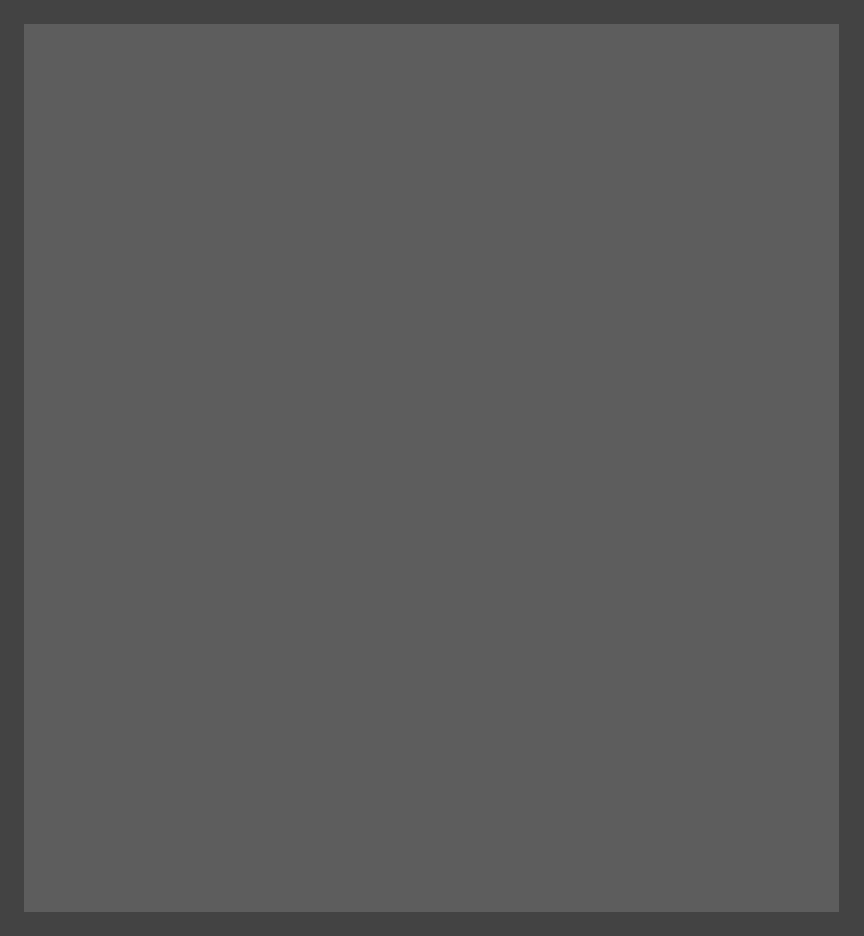
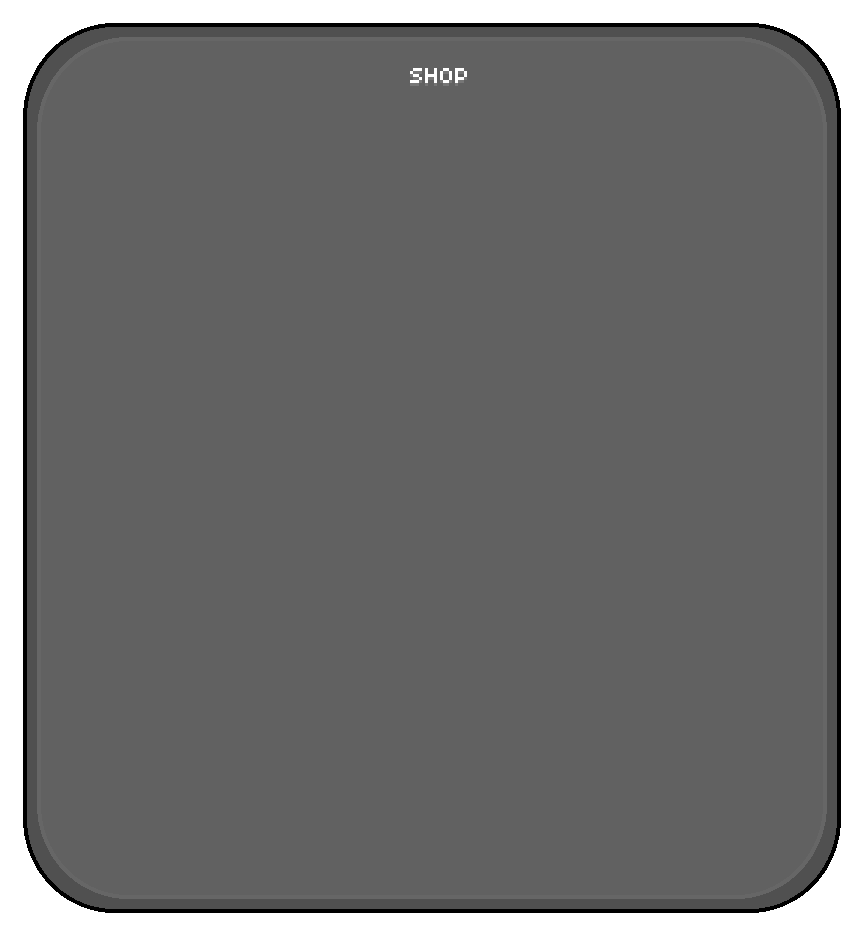
zmiana GUI sklepu

Changed region(s): [[0.0, 0.0, 1.0, 1.0], [0.4688, 0.062, 0.5625, 0.0929]]

diff --git a/shop.py b/shop.py
@@ -14,19 +14,19 @@ class Shop():
     def draw(self, screen):
         screen.blit(self.image,(self.rect.x, self.rect.y))
 
-    def price_text(self, screen, text, x, y):
-        font=pygame.font.SysFont('Bauhus 93', 40)
+    def text(self, screen, text, x, y, size):
+        font=pygame.font.SysFont('Bauhus 93', size)
         color=(255,255,255)
         img=font.render(text,True, color)
         screen.blit(img,(x,y))
         
     def update_health(self, screen, score, actualHealth, healthImage):
-        x = self.width//2-200
-        y = self.height//2-300
+        x = 100
+        y = self.height//2-250
         healthPrice=10
 
         buttonBuyHealth=Button(x, y, healthImage)
-        self.price_text(screen, f"Price: {healthPrice}", x, y + 50)
+        self.text(screen, f"Price: {healthPrice}", x, y + 50, 40)
 
         if buttonBuyHealth.draw(screen):
             if not self.button_clicked:
@@ -41,7 +41,17 @@ class Shop():
         return self.health, score
     
     def back_button (self, screen, imageButtonBack):
-        buttonBack=Button(self.width//2-60, self.height//2-380, imageButtonBack)
+        text="BACK"
+        font=pygame.font.SysFont('Bauhus 93', 40)
+        color=(255,255,255)
+        x = int(self.width/2)+250
+        y = 100
+
+        text_img = font.render(text, True, color)
+        text_rect = text_img.get_rect()
+        text_rect.topleft = (x, y)
+        buttonBack = Button(x, y, text_img)
+
         if buttonBack.draw(screen):
             if not self.button_clicked:
                 self.button_clicked = True

diff --git a/main.py b/main.py
@@ -72,7 +72,8 @@ while run:
 
     if shopAction:
         shop.draw(screen)
-        score_text(str(score), font, text_color, int(width/2)-10,30)
+        fontShop=pygame.font.SysFont('Bauhus 93', 50)
+        score_text(f"Score: {score}", fontShop, text_color, int(width/2)-350,100)
         health, score = shop.update_health(screen, score, healthSave, healthImageButton)
         healthSave = health
         shopAction = shop.back_button(screen, restart)
